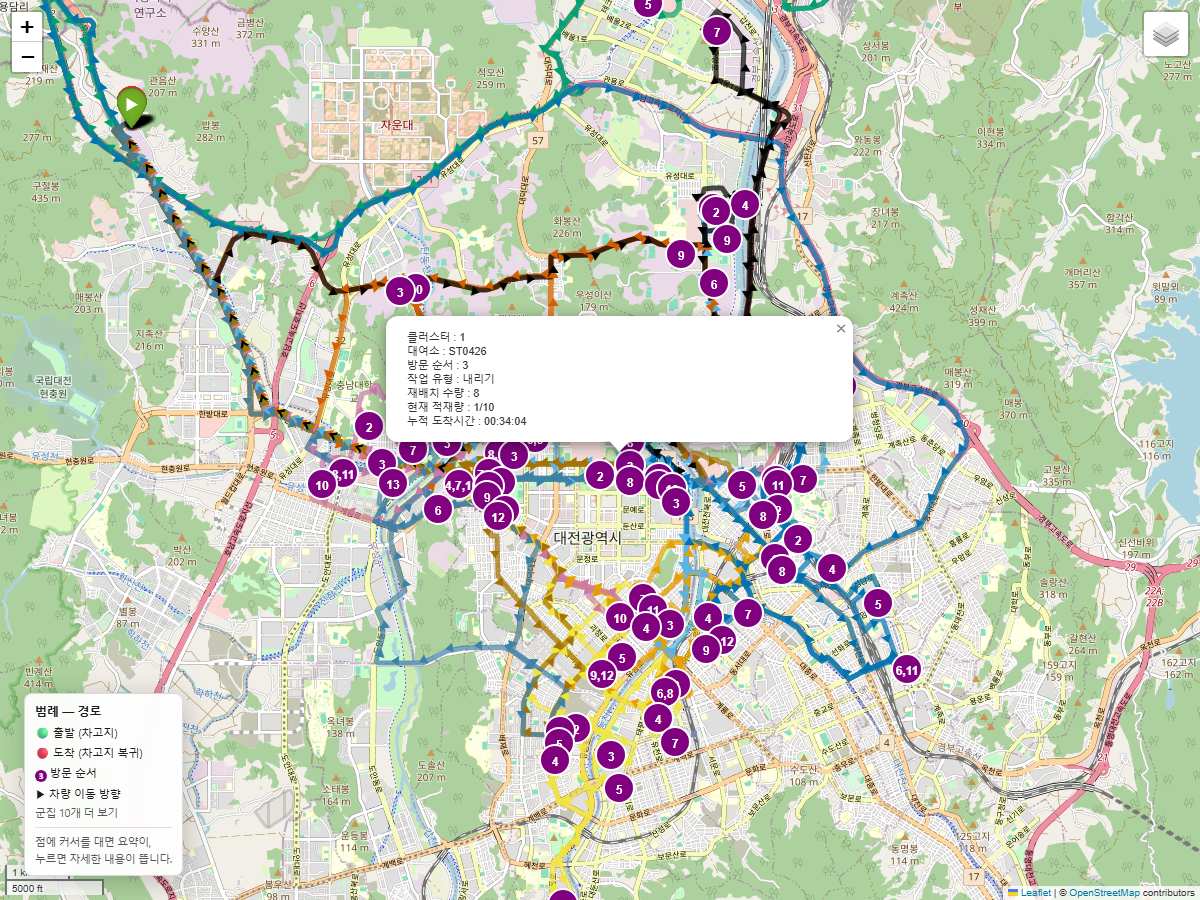
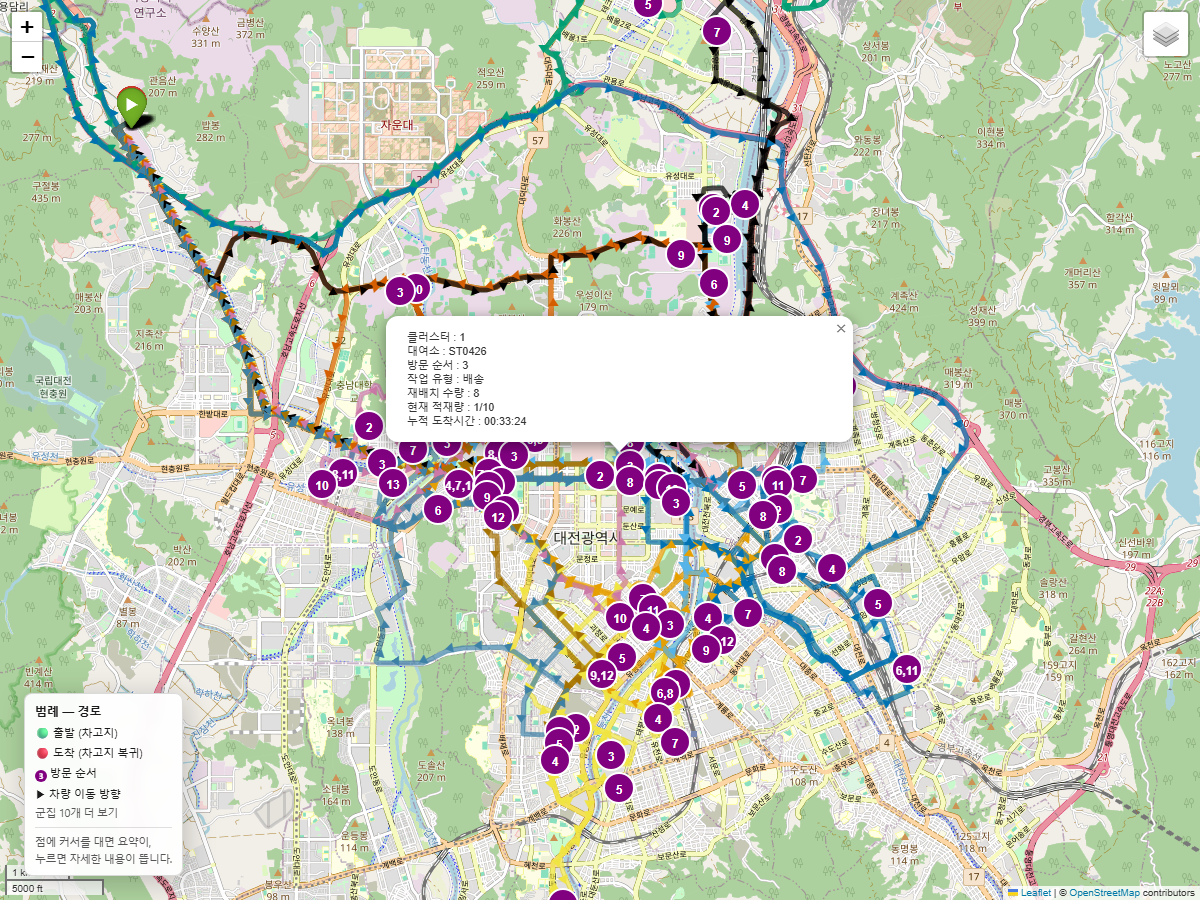
260925 원고 그림 넷이 옛 말(싣기/내리기)을 찍고 있었다 - 다시 그리고 다시 찍는다 (1.26.281)
1.26.279가 작업 용어를 수거/배송으로 모았지만 이미 만든 그림은 그대로였다. 사용자가
'작품 개요 및 원고의 그림 수정해라'고 해서 원고 그림 25장을 다 열어 보니 넷이 옛 말을
보였다 — [그림 3-4] 작업시간 줄, [그림 4-4] 정보 창의 작업 유형, [그림 4-8]·[그림 4-9]의
'할 일' 열.

3-4는 make_thesis_figures.py로 다시 그렸고 수치는 그대로다(방문 6회 · 109.0분). 4-8·4-9는
capture_thesis_screens.py로 다시 찍었다(4-9는 타슈 공개 API 1회).

4-4는 지도 HTML부터 옛 말을 품고 있었다. 이 PC에는 정본 실행의 후보 CSV가 없어
redraw_maps.py가 군집 지도에서 먼저 실패하지만, step3 main.py는 DB를 먼저 읽으므로 직접
불렀다 — 정본 05~10시 한 회차, TMAP 10건(예산 12건), 그날 도로 수집이 끝난 뒤. road_leg에
99구간이 새로 남았는데 이 라벨에는 전에 행이 없었고, 이동시간 모형은 기본값이 패널분만
읽어 채택 계수에 섞이지 않는다.

4-9는 찍을 때마다 수가 바뀐다 — 09-18 15:52의 47·36·3이 09-25 21:38에는 41·27·18이다(밤
재고라 V01에서만도 수거지 둘이 0대). 4장 캡션의 시각과 세 수를 고쳤고, 논문 README의 할 일
두 줄과 TODO의 경로 지도 항목에 적었다.

동사 '싣고 남는 수'·'실을 수 있습니다'는 작업 이름이 아니라 1.26.279 규칙대로 뒀다.

코드 변경 없음(그림·캡션만). 테스트 1020개 통과(1개 건너뜀), 이 변경이 바꾼 개수는 없다

diff --git a/docs/기록/TODO.md b/docs/기록/TODO.md
@@ -32,7 +32,7 @@
 | 🟢 | **도크리스 전환에 대비한 거점(가상대여소) 기준 — 1차 측정은 이용량 기준을 기각했다 (2026-09-16, 36장)** — 중기계획 3-5-1이 QR단말기 2,500대로 도크리스를 병행 도입하고, 581쪽 자문의견이 *"가상대여소의 위치 선정에 대한 분석이 필요"* 라 적었다. 사용자 제안(*"GPS만 있으면 대여·반납 잦은 곳을 거점으로"*)을 12개월 자료로 재니 **집중도·포함률 미달**(상위 543곳=38.6%가 끝점 80%를 덮고, 그것으로 정본 후보의 64.7~73.9%만 포함) · **안정성만 통과**(자카드 0.775~0.922)다. ▶ ✅ **①은 했다 (2026-09-16, 2차)** — 기준을 순수요 편향으로 바꾸니 같은 543곳이 후보의 **70.7~85.8%**(표본 밖 71.3~85.5%)를 덮고 끝점도 70.1% 덮어 ①·①-b·④ 통과. 🔴 대신 **시간 안정성이 미달**(자카드 0.78~0.92 → **0.49~0.72**, 반년 묶음 0.705)이라 거점은 한 달 자료로 못 정한다 — 설계는 두 층(거점 위치는 여러 달 묶음 · 회차 물량은 지금처럼)이다. ⏸ **남은 둘은 하지 않는다 (2026-09-16 사용자 결정 — 범위를 좁혔다)**: ② 귀속 규칙 모사(반경 몇 m로 거점에 묶나)는 **구현 쪽이라 범위 밖**이고 ③ 도크리스 선행연구는 **자료가 생기면** 2장에 절을 연다(지금 LITERATURE 24편은 전부 도크 기반). 🔴 논문에는 *'도크리스여도 같은 절차가 선다'* 는 **일반성 서술**로만 남겼다 — 1장 1.3(구현 아님을 명시) · 8장 향후과제 7 · **9장 기여 '방법의 단위' 절** · THESIS 8장 표 | [EXPERIMENTS 36장](../분석/EXPERIMENTS.md) · `experiments/structure/dockless_hub.py` |
 | ✅ | ~~**게이트 A 채택 — 판정 통과(2026-09-15) · 사용자 승인(09-16) · 09-19/20 재실행**~~ → **끝났다 (2026-09-21, 1.26.268).** 네 단계를 차례로 밟았다 — `.env` 세 줄 · 정본 라벨을 박은 재실행 스크립트 · **끈 채(09-19, 24/24 · 293분)와 켠 채(09-20, 24/24 · 207분)** · 문서 재작성(EXPERIMENTS 열여덟 장 + 원고, 1.26.246~256) · 브랜치 `gate-a-default-on` 합치기. **이제 `.env` 없이도 실도로 모형이 기본값이다**(320.4초 + 32.11 km/h, 1km 433초). 끄려면 그 프로세스에 `PBR_USE_ROAD_MODEL=0`. 재실행 결과는 `data/gate_a_rerun/`(커밋 안 됨)이고 요점은 버전관리에 옮겨 적었다. 🔴 **가장 큰 발견**: 제안 방법의 계획은 한 자리도 안 바뀌고 **시간만 드러났다** — 세 회차 모두 예산(120분)을 넘고, 예산 안에서 멈추는 그리디가 손해를 보아 격차가 +0.09h → **+0.22h**로 벌어졌다. 그 우위는 **예산을 넘겨서 얻은 것**이라 초과 건수와 함께 적어야 한다 | [EXPERIMENTS](../분석/EXPERIMENTS.md) 맨 앞 갈래 표 · [수집완료_계획](수집완료_계획.md) 2-4~2-6 |
 | 🟡 | **공식 자료 두 편이 논문의 규모 수치를 흔들었다 — 계획을 다시 짰다 (2026-09-15)** — 「2025 교통현황조사」와 「2025 도시교통정비 중기계획」을 읽었다. ① **'2,305대'는 2020년 값**이다(중기계획이 KOSIS 2020 기준으로 인용, 교통현황조사 2024·2025년판이 그대로 싣는다) — 대여이력에는 2025-10 한 달에 4,026대. ② 2024년판의 관제센터 2,454건/일은 도시 전체의 17.7%라 이상치로 보인다. ③ ✅ **같은 주(2025-10-20~26) 대조: 요일 모양 일치(계수 차 ≤ 0.03), 수준은 날마다 82~87%로 일정하게 낮다** — 원인 미확인. ④ 중기계획의 '대여 위치 재배치'는 대여소를 옮기는 일이다. 1장 1.1·각주·참고문헌은 고쳤다. ⑤ 같은 날 `기사 url.txt`에 들어온 고장·정비 기사: 정비센터 입고 **하루 100~150여 대**(공사 발표) 대 34장 탐지 **하루 8.3대** — 34장은 고장 전체가 아니라 **방치 꼬리**다. 수거는 *"재배치팀이 회수"*(2024-01), 거점 수리센터 4곳 → **사용자 결정: 같은 차량으로 가정 · 목적지는 정비센터 한 곳(거점 4곳 보류)**. EXPERIMENTS 34장·고장수거 로드맵 0·H에 적었다. ✅ **2026-09-16에 둘 다 닫혔다** — 제출은 **10월 후반**이고(THESIS 10-D-3이 거꾸로 짠 차례), **관제센터에는 전화하지 않는다**(사용자: 첨부 문서에 다 있다). 문서로 닫힌 것은 통화 시점(2025년 9월)과 3.5시간 수용 여부이고, **보유 대수·15% 격차·1대 싣는 시간은 가정·한계로 적는다**(10-D-2 트랙 ③) | [THESIS.md](../연구/THESIS.md) 10-D절 · `experiments/diagnostic/survey_crosscheck.py` |
-| 🟡 | **경로 지도(`vrp_map*.html`)가 전부 낡음이다 — step3 `main.py` 주석을 고쳐 지문이 바뀌었다 (2026-09-15, 1.26.227)** — API 이름(*다중 경유지 안내*)과 폴백 순서(30 → 100 → 200)를 주석에 맞추라는 사용자 지시로 고쳤고, 그 값으로 지도 지문이 바뀌었다. 코드 동작은 그대로다. ▶ **2026-09-16에 8장을 되살렸다 — 최신 8 / 낡음 7.** 정본 `2026-08-11 real` 3회차(30건) → `2026-08-28 도로실측` 3회차(44건) → `도로실측2` 2회차(31건), 합 **105건**. 🔴 **세 번째 라벨 도중에 `routeSequential30`이 소진**됐고(그 뒤 `100`으로 폴백), `도로실측2 _05_10`은 *"필요 14건 > 남은 예산 13건"* 으로 **그리기 전에 건너뛰었다**(1.26.222 장치가 실제로 일했다 — 반쯤 그려 '최신' 지문을 주지 않았다). ▶ **여기서 멈췄다**(2026-09-16 사용자 결정) — 남은 `100`(50건/일)·`200`(20건/일)은 **집 PC의 오늘 저녁·내일 아침 도로 수집이 쓸 폴백 몫**이다. 09-15에 지도를 그리다 아침 수집을 0구간으로 만든 적이 있고, 지도는 다시 그리면 되지만 그 시각의 도로 소요는 다시 잴 수 없다. **남은 몫 74건**: `도로실측2 _05_10` 14 · `z165` 30 · `z199` 30 (뒤 둘은 지문 도장 이전 산출물이라 원래도 낡음이었다) — 한도가 풀린 뒤 하루에 마칠 수 있다. ▶ **같은 날 저녁 집 PC에서 5장을 더 되살렸으나(76건), 1.26.232가 `main.py`를 고쳐 이 PC의 경로 지도 11장이 다시 전부 낡음이다** — 여섯 번째 장에서 호출 도중 한도가 끊겨 직선이 섞인 지도가 *최신* 지문을 받고 `road_leg`가 80→41행으로 줄었고(백업으로 되돌림), 그 결함을 고친 대가다. 다시 그릴 때는 **평일 한도가 풀린 뒤**, 도로 수집 몫을 남기고 한다. ▶ **2026-09-17 회사 PC 확인 — 경로 지도 15장 전부 낡음**(현재 지문 `3dbe9fdcbd9e`), 되살린 8장도 포함이다. `road_leg`는 라벨·회차마다 군집이 `vrp_plan`과 같아 이 PC에는 80→41행 손상이 없었다. 🔴 **다시 그리는 것은 09-19·20 게이트 A 재실행이 끝나고 `main.py`가 굳은 뒤(09-23 이후)**, 평일에 하루 80건 안쪽으로 하고, **그날은 한 PC만 그린다** — 두 PC가 한 키를 나눠 써서 09-16에 겹쳤을 가능성이 있다([두_PC_작업.md](../구현/두_PC_작업.md) 0장 *경로 지도 다시 그리기도 한 날에는 한 PC만*). 🔴 **09-15에 적은 "60셋 · 약 780건"은 틀렸다** — `--all`은 **지도 파일이 아직 없는 실행까지** 세는데(이 PC의 경로 지도 파일은 15장뿐이다), 그것들은 되살리는 것이 아니라 **새로 만드는 것**이라 별개 판단이다. 확인법: `mapviz.stamp_in(html)`을 `mapviz.source_stamp(step3/main.py)`와 대조한다 | [step3 문서](../구현/steps/step3_visualization.md) '현재 문제점' | [step3 문서](../구현/steps/step3_visualization.md) '현재 문제점' |
+| 🟡 | **경로 지도(`vrp_map*.html`)가 전부 낡음이다 — step3 `main.py` 주석을 고쳐 지문이 바뀌었다 (2026-09-15, 1.26.227)** — API 이름(*다중 경유지 안내*)과 폴백 순서(30 → 100 → 200)를 주석에 맞추라는 사용자 지시로 고쳤고, 그 값으로 지도 지문이 바뀌었다. 코드 동작은 그대로다. ▶ **2026-09-16에 8장을 되살렸다 — 최신 8 / 낡음 7.** 정본 `2026-08-11 real` 3회차(30건) → `2026-08-28 도로실측` 3회차(44건) → `도로실측2` 2회차(31건), 합 **105건**. 🔴 **세 번째 라벨 도중에 `routeSequential30`이 소진**됐고(그 뒤 `100`으로 폴백), `도로실측2 _05_10`은 *"필요 14건 > 남은 예산 13건"* 으로 **그리기 전에 건너뛰었다**(1.26.222 장치가 실제로 일했다 — 반쯤 그려 '최신' 지문을 주지 않았다). ▶ **여기서 멈췄다**(2026-09-16 사용자 결정) — 남은 `100`(50건/일)·`200`(20건/일)은 **집 PC의 오늘 저녁·내일 아침 도로 수집이 쓸 폴백 몫**이다. 09-15에 지도를 그리다 아침 수집을 0구간으로 만든 적이 있고, 지도는 다시 그리면 되지만 그 시각의 도로 소요는 다시 잴 수 없다. **남은 몫 74건**: `도로실측2 _05_10` 14 · `z165` 30 · `z199` 30 (뒤 둘은 지문 도장 이전 산출물이라 원래도 낡음이었다) — 한도가 풀린 뒤 하루에 마칠 수 있다. ▶ **같은 날 저녁 집 PC에서 5장을 더 되살렸으나(76건), 1.26.232가 `main.py`를 고쳐 이 PC의 경로 지도 11장이 다시 전부 낡음이다** — 여섯 번째 장에서 호출 도중 한도가 끊겨 직선이 섞인 지도가 *최신* 지문을 받고 `road_leg`가 80→41행으로 줄었고(백업으로 되돌림), 그 결함을 고친 대가다. 다시 그릴 때는 **평일 한도가 풀린 뒤**, 도로 수집 몫을 남기고 한다. ▶ **2026-09-17 회사 PC 확인 — 경로 지도 15장 전부 낡음**(현재 지문 `3dbe9fdcbd9e`), 되살린 8장도 포함이다. `road_leg`는 라벨·회차마다 군집이 `vrp_plan`과 같아 이 PC에는 80→41행 손상이 없었다. 🔴 **다시 그리는 것은 09-19·20 게이트 A 재실행이 끝나고 `main.py`가 굳은 뒤(09-23 이후)**, 평일에 하루 80건 안쪽으로 하고, **그날은 한 PC만 그린다** — 두 PC가 한 키를 나눠 써서 09-16에 겹쳤을 가능성이 있다([두_PC_작업.md](../구현/두_PC_작업.md) 0장 *경로 지도 다시 그리기도 한 날에는 한 PC만*). 🔴 **09-15에 적은 "60셋 · 약 780건"은 틀렸다** — `--all`은 **지도 파일이 아직 없는 실행까지** 세는데(이 PC의 경로 지도 파일은 15장뿐이다), 그것들은 되살리는 것이 아니라 **새로 만드는 것**이라 별개 판단이다. 확인법: `mapviz.stamp_in(html)`을 `mapviz.source_stamp(step3/main.py)`와 대조한다. ▶ **2026-09-25 — 정본 `2026-08-11 real _05_10` 한 장만 새로 그렸다**(TMAP 10건, 예산 12건, 그날 도로 수집이 끝난 뒤) — 원고 [그림 4-4]의 정보 창이 옛 말 '내리기'를 보여서다(1.26.279 용어 통일, 1.26.281). 그린 PC에 후보 CSV가 없어 `redraw_maps.py`가 군집 지도에서 먼저 실패하므로 step3 `main.py`를 직접 불렀다 (`PBR_TMAP_MAX_CALLS=12 python pipeline/step3_map/main.py --now "2026-08-11 real" --duration _05_10`) | [step3 문서](../구현/steps/step3_visualization.md) '현재 문제점' | [step3 문서](../구현/steps/step3_visualization.md) '현재 문제점' |
 | ✅ | ~~**회사 PC 재고 수집이 09-15 10:40 뒤로 끊겼다 — 저장소 폴더 이름이 바뀌어 작업이 옛 경로를 가리켰다 (2026-09-15 발견)**~~ → **복구했다 (15:12, 1.26.224).** 두 작업(`PBR재고수집`·`PBR도로시간수집`)이 `C:\PBR-PublicBicycleRelocation-\`(끝에 `-`)를 가리켜 실행마다 `0x80070002`(파일 없음)였다 — 같은 날 pre-commit 훅이 막힌 것(1.26.221)과 같은 뿌리다. 약 26틱(10:50~15:00)을 잃었고 재고는 그 순간 값이라 되살릴 수 없다. 재고 작업은 운영 명령 그대로 `install`해 직접 실행 결과 `0x0` · 15:10 틱을 확인했다. ⚠ **도로 작업은 일부러 재등록하지 않았다** — `install`은 켜진 채 등록하고 놓친 시각을 따라잡을 수 있어, 게이트 A 날에 회사 PC가 TMAP을 부를 수 있었다(도로 수집 담당은 집 PC). 되살릴 때는 `resume`이 아니라 `install`이다. `status`가 이제 작업이 없는 경로를 가리키면 `[!]`로 알린다. ▶ **집 PC도 `git pull` 뒤 두 `status`에서 `[!]`가 뜨는지 볼 것** | `scripts/collector.ps1` · `scripts/road_collector.ps1` |
 | ✅ | ~~**axe가 좁은 화면에서 본문 요소 셋을 문다 — 탭 막대를 확인하다 발견, 안 고침 (2026-09-14)**~~ → **①② 고쳤다 (1.26.220) · ③도 닫았다 (2026-09-15).** ③은 TMAP 한도가 풀린 것을 확인한 뒤(12:32) 경로 지도 `2026-08-28 도로실측2` 세 장을 **호출 44건**(예산 80건)으로 다시 그렸다 — `/maps`의 `aria-command-name`이 **32 → 0**이고 라이트·다크 × 1400·375px 네 조합 모두 위반이 없다. 수정 시각을 되돌려 `/maps`가 띄우는 지도는 그대로다. ⚠ **나머지 VRP 지도 12장(다른 실행)은 여전히 옛 그림이다** — `/maps`가 띄우지 않아 스캔에 안 걸릴 뿐이다. 1.26.220 기록: — 셋 다 **1.26.195 전부터** 있었고 좁은 화면과 무관하다(1400px에서도 뜬다). ① `.muted` 문장은 1.26.146(09-07)에 들어왔다 — `.alert .muted, .alert .hint`를 `--ink-2`로. ② **다크에서만** 걸린다(라이트 3.02:1) — 1.26.126 스캔이 라이트만 봤다. 스캔한 날 뜬 것은 경고문이 아니라 홈 '마지막 계획' **카드 바닥 링크 셋**이었다(경고문은 계획이 24시간을 넘을 때만 나온다) — 밑줄 목록에 `.alert`·`.card-foot`·`.section-lead`를 더했다(`/guide` 재고 수집 절 링크도 같은 원인, 1.26.198부터). ③ **코드는 1.26.126에 이미 고쳐져 있다** — `/maps`가 띄우는 경로 지도 `vrp_map_15_20 (2026-08-28 도로실측2)`가 그 전에 그려져 이름 붙이는 스크립트가 없다(VRP 지도 15장 전부). ▶ TMAP 한도가 남는 날 `python tools/redraw_maps.py --run-label "2026-08-28 도로실측2" --with-route`(예산 장치 1.26.219)로 다시 그리면 사라진다. 📌 `/api/docs`(FastAPI 기본 Swagger)의 `color-contrast` 33·`nested-interactive` 30·`html-has-lang` 1은 우리 템플릿이 아니라 안 고친다. 옛 기록: — ① `/vehicles` 경고문(`.alert`) 속 회색 글자 **4.42:1**(`#6e6e73` on `#fbecec`, 기준 4.5) ② 다크 모드 `/` 경고문 속 링크 둘(`href$="orders"` · `href$="run"`)이 주변 글자와 **2.76:1**(`link-in-text-block`, 기준 3:1 — 밑줄 없이 색만으로 링크를 말한다) ③ `/maps` 지도 iframe 안 마커 **32곳**에 이름 없음(`aria-command-name`). ⚠ **1.26.195 전부터 있었는지는 대조하지 않았다** — 셋 다 막대 밖 본문이다. 1.26.126 스캔(8개 화면 데스크톱·모바일) 뒤에 새로 생긴 것인지부터 가린다. 재현은 [pbr-run 스킬](../../.claude/skills/pbr-run/SKILL.md) 4장의 axe 골격 | `/vehicles` · `/` · `/maps` |
 | 🟡 | **회사 PC(A)의 대기 중 수집은 '화면 꺼짐'이 아니라 '대기가 절전 단계로 넘어가느냐'가 가른다 — 오전의 🔴 판정을 점심 덮개 시험이 뒤집었다 (2026-09-14)** — 오전에 *"화면이 꺼지면 충전 중이어도 대기로 들어가 수집이 멈춘다"* 고 올렸는데, 점심 대기(12:51~13:42 · 덮개 닫음 · 충전 중)에서 **5틱이 모두 제시각(+2초)에 찍혔다.** 대기 해제 이벤트 `Kernel-Power#507`의 필드로 가르니 짝이 하나 나온다 — **`SleepEntered=true`(DRIPS 75~98%)였던 충전 중 대기 5구간은 76눈금 동안 틱 0**(앞뒤 틱은 정상), **`SleepEntered=false`·DRIPS 0%였던 점심만 5/5**다. 등록 전도 같다(절전 단계가 없던 08-26 09:08은 4/4, 배터리 대기에서 돈 틱 셋은 모두 첫 DRIPS 진입 전). 🔴 **오전 판정의 잘못은 추론이었다** — *"절전(AC)이 '안 함'인데도 대기가 되풀이됐다"* 고 썼지만, 레지스트리 수정 시각을 보니 **절전 '안 함'은 바로 그날 09:26에 바꾼 값**이다(덮개 동작 09:25 · 잠금 화면 끄기 10:19 · 화면 끄기 20분 10:57도 같은 날). 되풀이된 대기는 **모두 그 전 설정**에서 났다 — 지금 값으로 과거를 읽었다. 그래서 문서의 *"화면만 꺼짐 ✅"* · 0-A의 *"화면 끄기는 건드리지 않아도 됩니다"* 는 틀렸다고 할 수 없고, 대신 **'절전(AC) 안 함'이 전제**라고 밝혔다. `install` 점검이 `STANDBYIDLE`을 보는 것도 맞는 자리였다 — 다만 *"타이머가 창보다 짧아도 매 틱이 되돌려 안 잔다"* 는 가운데 갈래가 모던 대기에서도 맞는지는 모른다(바꾸기 전 값이 기록에 없다). ⚠ **관측은 둘이고 여러 설정을 한꺼번에 바꿔 무엇이 막았는지는 못 가른다**(유력한 것은 절전 '안 함'). 09-10은 깨어 있을 때도 틱이 0이라 뺐다. ✅ **첫 장시간 검증 통과 (2026-09-15)** — 덮개 닫고 전원 연결한 밤샘 대기 **14시간 33분**이 `SleepEntered=false` · DRIPS 0이었고 격자 17:40~08:20 **89/89틱**(호출 지연 중앙 2초)이 찍혔다. ▶ 이번 주 평일 밤 셋 + 첫 무인 주말(09-18 저녁~09-21 아침)이 결측 없이 가면 **규칙으로 올린다**(사전 등록, COLLECTOR.md 7장). ⚠ 무인 주말의 남은 위험은 대기가 아니라 **재부팅**이다 — 09-10 00:45에 Windows 업데이트가 밤중에 재시작했고 수집 작업은 로그인해야 돈다(**09-18 퇴근 전 결정**, 두_PC_작업.md 0-A 3단계) ▶ **집환경(B)이 확인했다 (2026-09-22, 1.26.276)** — 가르는 것은 전원도 네트워크도 아니고 **절전 단계**다. 화면만 꺼진 동안은 AC든 배터리든 틱이 돌고, 설정 시간(집: AC 5시간 · 배터리 4시간) 뒤 절전 단계에 들면 멈춘다(09-14 AC 13:12 · 09-19 AC 17:38 · 09-22 배터리 03:41). 🔴 **`install` 점검의 가운데 갈래(*매 틱이 되돌려 안 잔다*)는 틀렸다** — 09-14에 틱 30개가 모두 `keep_awake()`를 불렀는데도 296분에 잠들었다. 경고로 바꿨고, 그 점검이 집환경에서 PATH 탓에 **한 번도 돌지 않던** 것도 고쳤다. 집환경도 같은 날 AC 절전을 **'안 함'으로 바꿨다**([사람이_할_일](사람이_할_일.md) ①-G) | [COLLECTOR.md](../구현/COLLECTOR.md) 7장 · [두_PC_작업.md](../구현/두_PC_작업.md) 0-A |

diff --git a/docs/연구/논문/README.md b/docs/연구/논문/README.md
@@ -303,8 +303,8 @@
 | --- | --- | --- | --- | --- |
 | 10월 초 (게이트 B) | 휴일 도로 계수 — 판정되면 3.8절 끝 문장을 고치고 `<!--B:` 주석을 지운다. 제출까지 안 나면 주석만 지운다 | 집 PC 도로 수집 | 휴일 10일이 모여야 한다(추석 연휴를 넣으면 10/4 무렵) | 2장 · [수집완료_계획 4장](../../기록/수집완료_계획.md) |
 | 제출 전 | 휴일 관측이 더 쌓였으면 8.3·8.4.3의 일수·회차를 다시 세고, 8.3의 *"회차 하나·이틀"* 조건을 고친다 | 원고 8.3 · 8.4.3 | 지금은 휴일 닷새(온전한 이틀)로 썼다 | 7-1 |
-| 제출 전 | [그림 4-9]를 다시 찍을지 정한다 — 2026-09-18 15:52의 재고와 대조한 화면이라 다시 찍으면 수가 바뀐다 | `python tools/capture_thesis_screens.py --live --only 4-9` | 다시 찍으면 캡션의 날짜·수를 함께 고친다 | 4.6 캡션 |
-| 제출 전 | 경로 지도를 다시 그릴지 정한다 — [그림 4-4]를 찍은 지도는 지문이 낡음이지만 내용은 정본 실행 그대로라 그림에는 영향이 없다 | 한 PC만, 평일 80건 안쪽 | TMAP 하루 한도 | TODO 색인 |
+| 제출 전 | [그림 4-9]를 다시 찍을지 정한다 — **2026-09-25 21:38**의 재고와 대조한 화면이라(용어 수거/배송으로 다시 찍었다, 1.26.281) 다시 찍으면 수가 바뀐다 | `python tools/capture_thesis_screens.py --live --only 4-9` | 다시 찍으면 캡션의 날짜·수를 함께 고친다 | 4.6 캡션 |
+| ~~제출 전~~ ✅ | ~~경로 지도를 다시 그릴지 정한다~~ → **2026-09-25에 다시 그렸다**(정본 05~10시 한 장, TMAP 10건, 1.26.281) — 정보 창의 작업 유형이 옛 말 '내리기'였다. 다른 회차·실행의 지도는 여전히 낡음이다 | 한 PC만, 평일 80건 안쪽 | TMAP 하루 한도 | TODO 색인 |
 | 한글로 옮기기 직전 | 부록 B를 `make_appendix_code.py`로 다시 뽑기 · `check_consistency.py` 0건 · `<!--A:`·`<!--B:`·`(자리` 확인 · 표·그림이 본문에서 모두 불리는지 | 원고 | 코드가 굳어야 한다 | 6장 · [한글_옮기기 7-1](한글_옮기기.md) |
 | 옮긴 뒤 | 카피킬러 30% 이하 · 지도교수 최종 확인 증빙 · 제본 1부 | 사람 | — | 0장 · [한글_옮기기 7-3](한글_옮기기.md) |
 | 🟢 관찰 | 조정 뒤 **대여소 한 곳짜리 군집**이 남는다(10~15시·15~20시 각 하나) — 그 차는 옮길 물량이 없다. 3.5.2에 사실만 적었고 고칠지(8장 한계로 둘지)는 정하지 않았다 | 모형 | — | TODO |

diff --git a/docs/연구/논문/4장_시스템설계.md b/docs/연구/논문/4장_시스템설계.md
@@ -178,8 +178,8 @@ API로 받은 실도로 경로를 그리며, 계획 계산 자체에는 식 (3.1
 
 ![그림 4-9](../초안/그림/그림4-9_실시간대조.png)
 
-[그림 4-9] 실시간 재고 대조 화면 (2026년 8월 11일 실행의 05~10시 계획을 2026년 9월 18일 15시 52분의 재고와 대조,
-차량 한 대). 계획 대상 86곳 가운데 47곳은 그대로 집행할 수 있고, 36곳은 수량 조정이 필요하며, 3곳은 집행할 수
+[그림 4-9] 실시간 재고 대조 화면 (2026년 8월 11일 실행의 05~10시 계획을 2026년 9월 25일 21시 38분의 재고와 대조,
+차량 한 대). 계획 대상 86곳 가운데 41곳은 그대로 집행할 수 있고, 27곳은 수량 조정이 필요하며, 18곳은 집행할 수
 없다고 판정하였다. 음영 행이 계획과 다른 재고가 발견된 곳이다.
 
 파이프라인 계산은 수 분이 걸리므로 웹 요청 안에서 직접 실행하지 않고 별도 프로세스로
